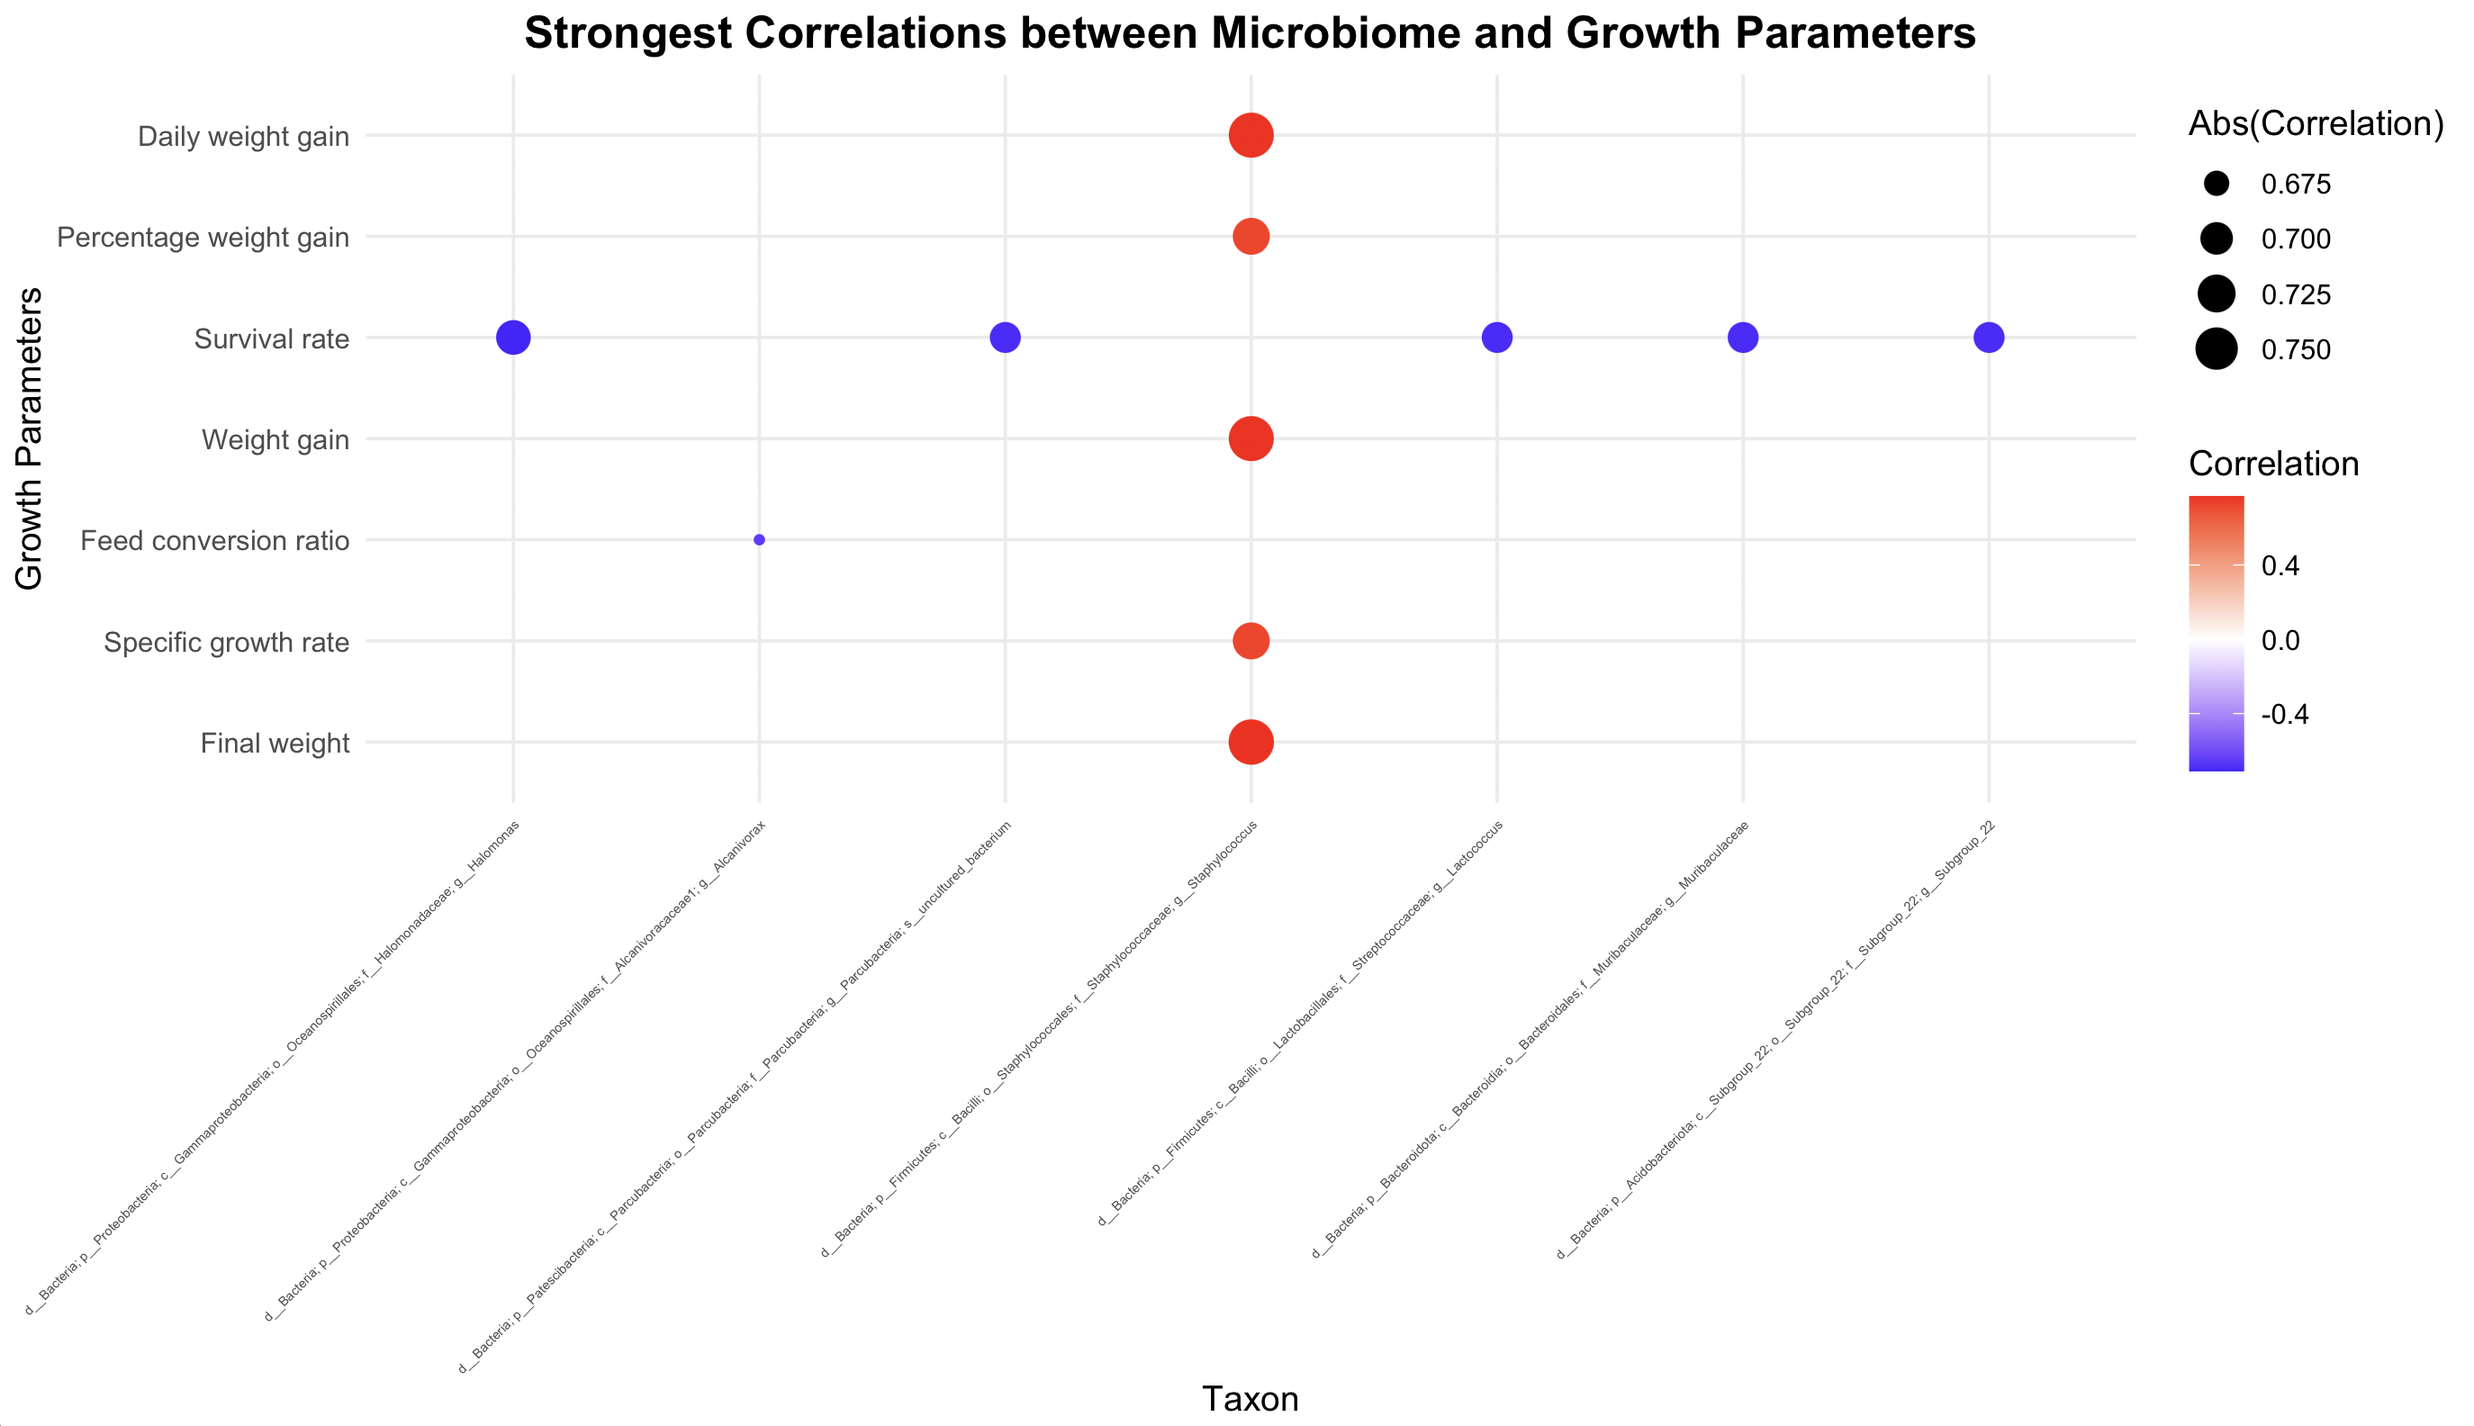
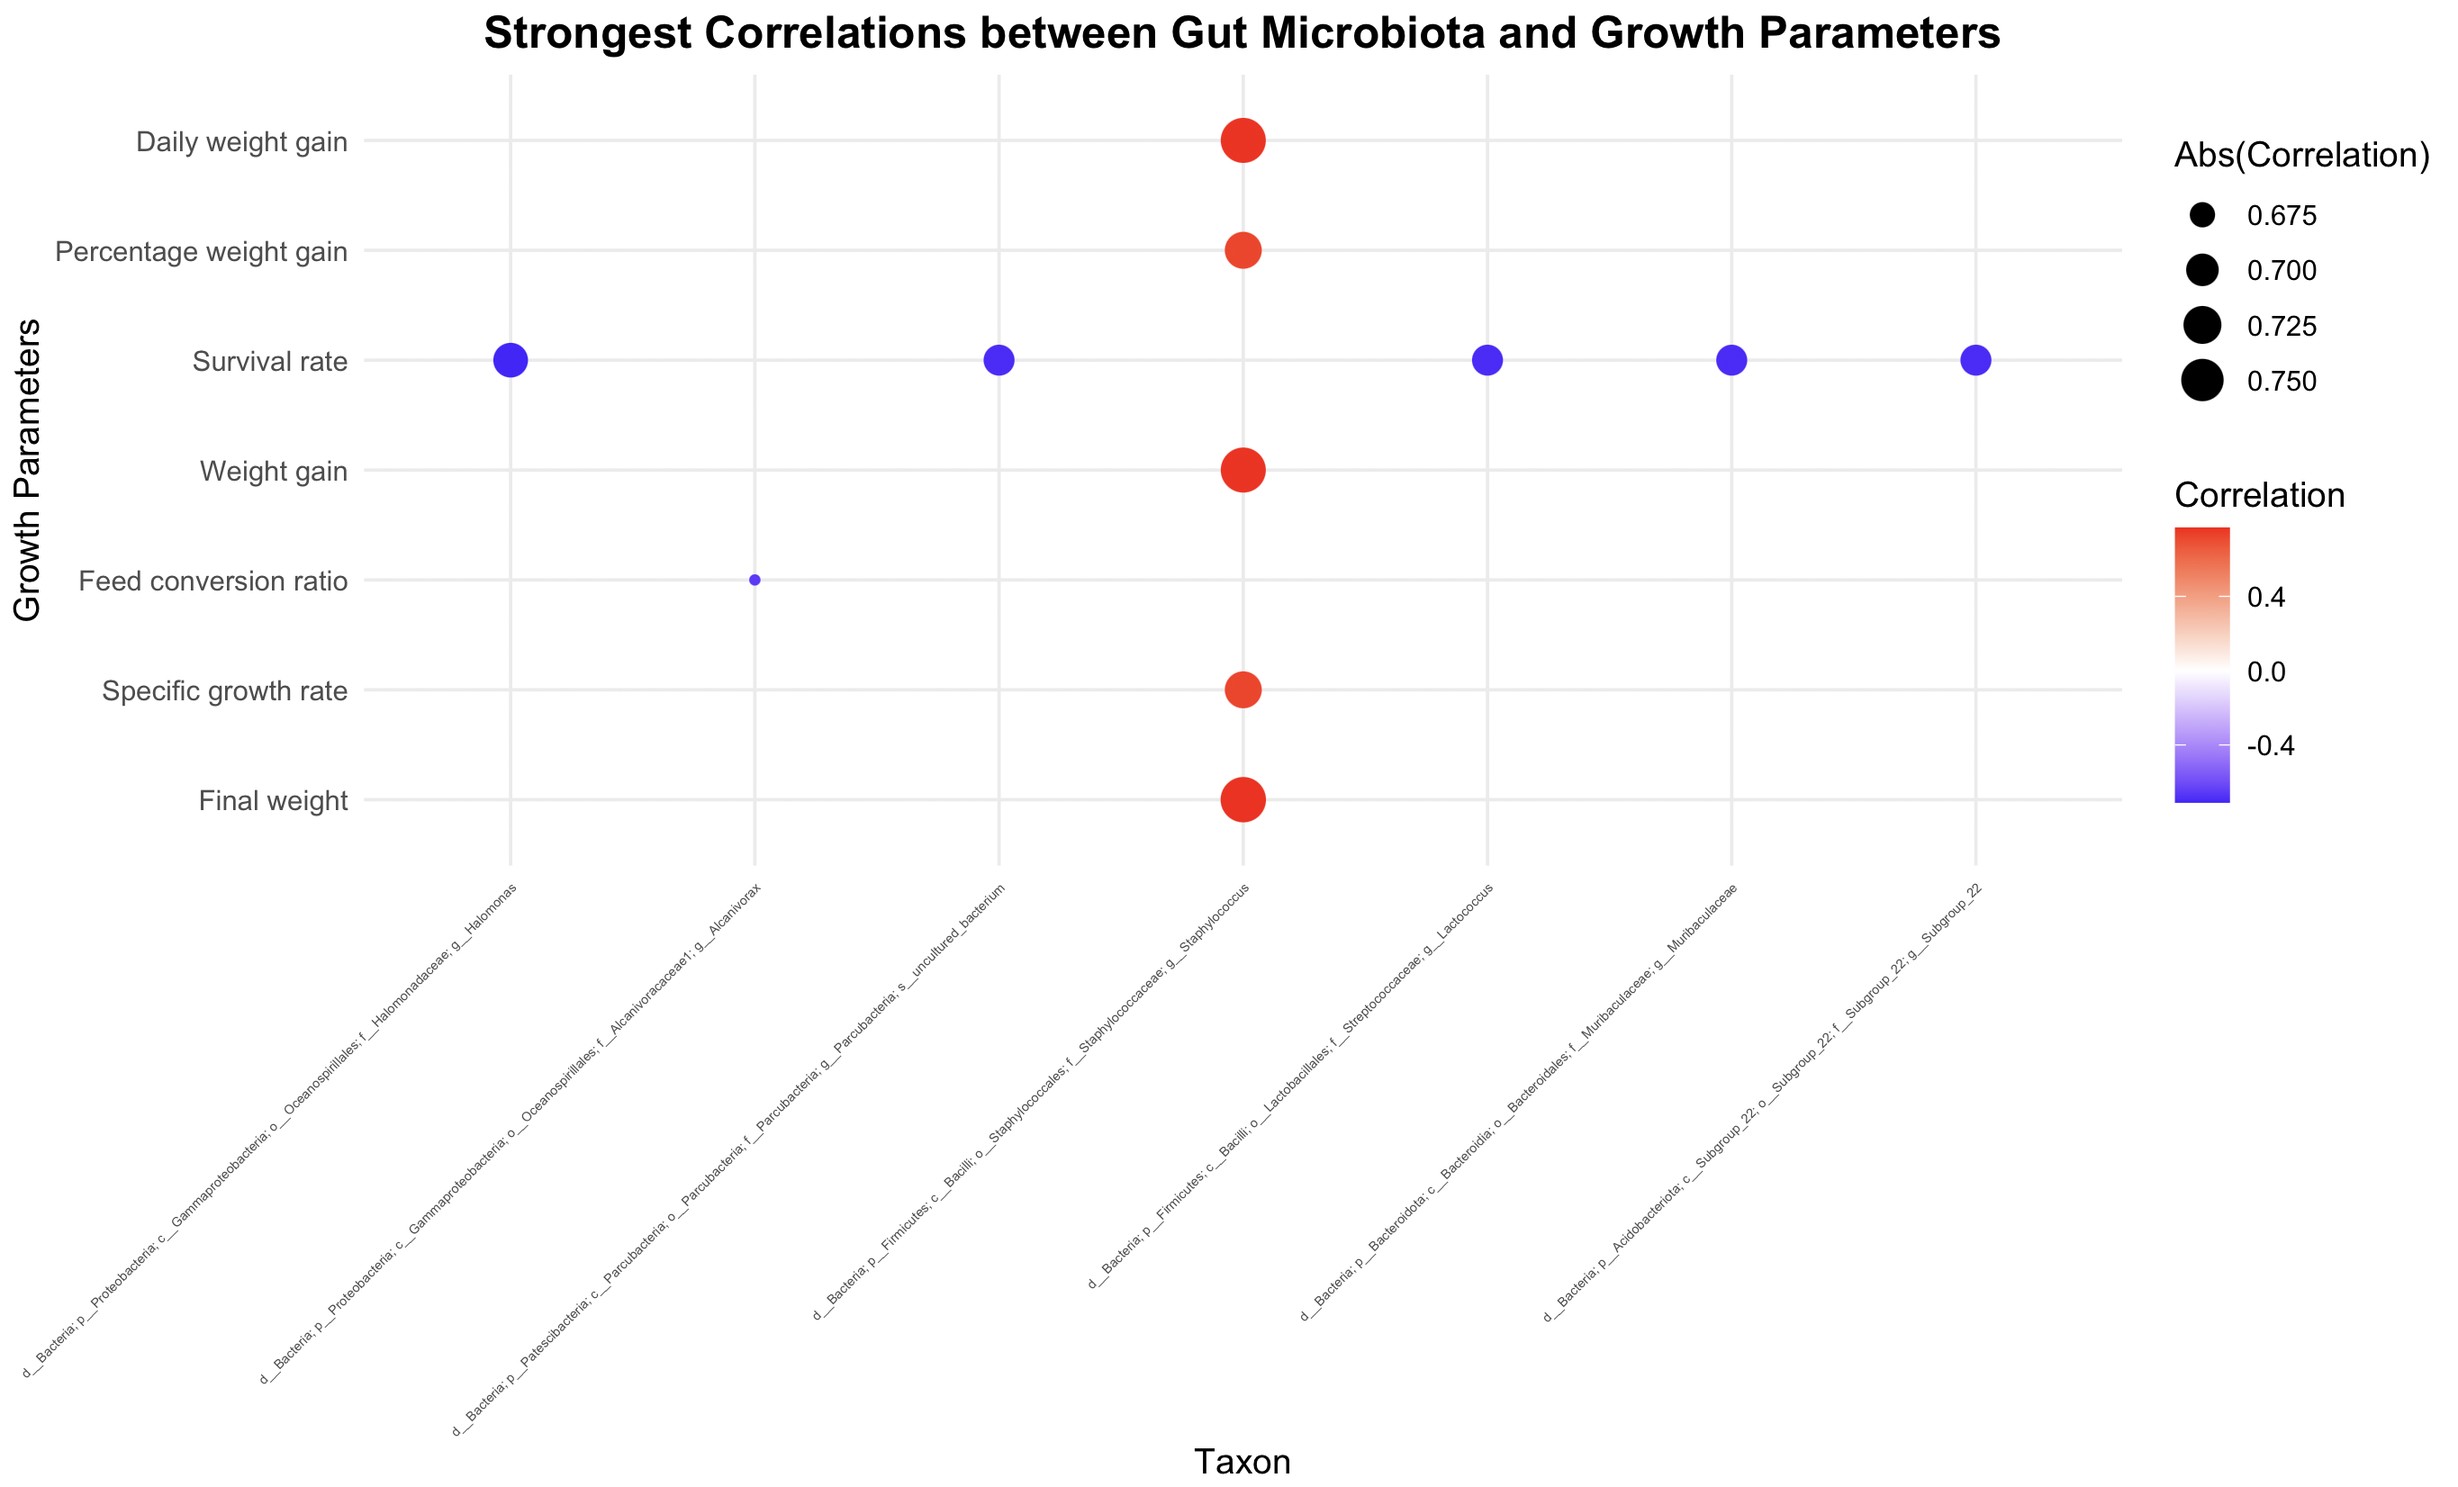
Update R_steps

diff --git a/R_steps/4. Visualization of microbiome analysis results.md b/R_steps/4. Visualization of microbiome analysis results.md
@@ -1,0 +1,162 @@
+# 4. Visualization of Gut Microbiome Analysis Results
+
+This section details the visualization of gut microbiome data, focusing on the relative abundance of genera across various samples, categorized by treatment groups.
+
+## 4.1. Environment Setup and Data Loading
+
+### 4.1.1. R Library Installation
+
+```r
+install.packages(c("tidyverse", "RColorBrewer"))
+```
+
+```r
+library(tidyverse)
+library(RColorBrewer)
+```
+
+### 4.1.2. Data Import
+
+Import the necessary data files:
+
+```r
+feature_table <- read_tsv("feature-table.tsv")
+taxonomy <- read_tsv("taxonomy.tsv")
+metadata <- read_tsv("metadata.tsv")
+```
+
+## 4.2. Data Processing and Preparation
+
+### 4.2.1. Wide to Long Format Conversion
+
+Convert the feature table from wide to long format for streamlined processing and plotting:
+
+```r
+feature_long <- feature_table %>%
+  pivot_longer(cols = -`OTU ID`, names_to = "sample-id", values_to = "Abundance") %>%
+  mutate(`sample-id` = as.numeric(`sample-id`))
+```
+
+### 4.2.2. Data Merging with Taxonomy and Metadata
+
+Merge the feature data with taxonomy and metadata to enrich each OTU and sample with comprehensive information:
+
+```r
+merged_data <- feature_long %>%
+  left_join(taxonomy, by = c("OTU ID" = "Feature ID")) %>%
+  left_join(metadata, by = "sample-id")
+```
+
+### 4.2.3. Relative Abundance Normalization
+
+Calculate the relative abundance for each OTU within each sample:
+
+```r
+final_data <- merged_data %>%
+  group_by(`sample-id`) %>%
+  mutate(Relative_Abundance = Abundance / sum(Abundance)) %>%
+  ungroup()
+```
+
+### 4.2.4. Genus Column Processing
+
+Extract genus information from the taxonomy column and handle special cases:
+
+```r
+final_data <- final_data %>%
+  mutate(Genus = str_extract(Taxon, "g__[^;]+")) %>%
+  mutate(Genus = ifelse(is.na(Genus), "uncultured unclassified", Genus)) %>%
+  mutate(Genus = str_remove(Genus, "^g__"),
+         Genus = str_replace_all(Genus, "_", " "),
+         Genus = ifelse(str_detect(Taxon, "uncultured|unclassified"), "uncultured unclassified", Genus))
+```
+
+### 4.2.5. Selection of Top 30 Predominant Genera
+
+Select the 30 genera with the highest relative abundance for detailed display, grouping the rest as "Other":
+
+```r
+top_30_genus <- final_data %>%
+  group_by(Genus) %>%
+  summarise(Total_Abundance = sum(Relative_Abundance)) %>%
+  arrange(desc(Total_Abundance)) %>%
+  slice_head(n = 30) %>%
+  pull(Genus)
+
+final_data <- final_data %>%
+  mutate(Genus = ifelse(Genus %in% top_30_genus, Genus, "Other"))
+```
+
+### 4.2.6. Genus and Treatment Order Arrangement
+
+Arrange the display order of genera and treatments for enhanced plot readability:
+
+```r
+final_data$Genus <- factor(final_data$Genus, levels = sort(unique(final_data$Genus)))
+final_data$Treatment <- factor(final_data$Treatment, levels = c("Control", "RP-5", "RP-10", "RP-20", "RP-40"))
+```
+
+### 4.2.7. Sample Renaming
+
+Rename samples for improved clarity:
+
+```r
+final_data <- final_data %>%
+  mutate(Sample_Label = sprintf("CH128-001M%04d", \`sample-id\`))
+```
+
+## 4.3. Color Customization
+
+Customize colors for genera to enhance plot visual appeal:
+
+```r
+highlight_colors <- c(
+  "uncultured unclassified" = "steelblue",
+  "Staphylococcus" = "skyblue",
+  "Chloroplast" = "red",
+  "Muribaculaceae" = "purple",
+  "Alloprevotella" = "green"
+)
+
+remaining_genus <- setdiff(unique(final_data$Genus), names(highlight_colors))
+num_colors_needed <- length(remaining_genus)
+
+if (num_colors_needed > 0) {
+  default_colors <- setNames(
+    colorRampPalette(brewer.pal(min(9, num_colors_needed), "Set1"))(num_colors_needed),
+    remaining_genus
+  )
+} else {
+  default_colors <- c()
+}
+
+genus_colors <- c(highlight_colors, default_colors)
+```
+
+## 4.4. Genus Composition Plotting
+
+Generate a stacked bar plot to visualize the relative abundance of genera across samples, grouped by treatment:
+
+```r
+ggplot(final_data, aes(x = Sample_Label, y = Relative_Abundance, fill = Genus)) +
+  geom_bar(stat = "identity", position = "stack", width = 0.65) +
+  facet_grid(~Treatment, scales = "free_x", space = "free_x") +
+  scale_fill_manual(values = genus_colors) +
+  labs(
+    title = "Composition of Gut Microbiota at the Genus Level",
+    x = "Sample", y = "Relative Abundance", fill = "Genus") +
+  theme_minimal() +
+  theme(
+    plot.title = element_text(face = "bold", size = 14, hjust = 0.5),
+    axis.text.x = element_text(angle = 90, vjust = 0.5, hjust = 1, size = 7),
+    legend.text = element_text(size = 8),
+    panel.border = element_rect(color = "black", fill = NA, size = 0.4),
+    strip.background = element_rect(fill = "grey90", color = "black"),
+    strip.text = element_text(face = "bold", size = 9)
+  )
+```
+
+**Visualization:**
+
+ ![Composition barplot](<Composition_barplot.png>)
+ *Download:* [Composition barplot](<Composition_barplot.png>)

diff --git a/R_steps/3. Spearman correlation analysis.md b/R_steps/3. Spearman correlation analysis.md
@@ -280,7 +280,7 @@ nrow(cor_df_with_tax)  # Number of significant taxa
 
 ### 3.3.3 Visualization and Analysis
 
-#### 3.3.3.1 Strongest Correlations between Microbiome and Growth Parameters
+#### 3.3.3.1 Strongest Correlations between Gut Microbiota and Growth Parameters
 
 ##### Prepare Data for Dotplot
 
@@ -308,7 +308,7 @@ cor_df_unique <- cor_df_unique %>%
 
 ##### Draw Dotplot
 
-Create a dotplot to visualize the strongest correlations between microbiome and growth parameters:
+Create a dotplot to visualize the strongest correlations between gut microbiota and growth parameters:
 
 ```r
 ggplot(cor_df_unique, aes(x = Taxon, y = Metadata, 
@@ -320,14 +320,15 @@ ggplot(cor_df_unique, aes(x = Taxon, y = Metadata,
     axis.text.x = element_text(angle = 45, hjust = 1, vjust = 1, size = 4.1),
     plot.title = element_text(hjust = 0.5, face = "bold", size = 14)  
   ) +
-  labs(title = "Strongest Correlations between Microbiome and Growth Parameters",
+  labs(title = "Strongest Correlations between Gut Microbiota and Growth Parameters",
        x = "Taxon", y = "Growth Parameters",
        size = "Abs(Correlation)", color = "Correlation")
 ```
 
 **Visualization:**  
-![Strongest Correlations between Microbiome and Growth Parameters](Strongest_Correlations.png)
-*Download:* [Strongest Correlations between Microbiome and Growth Parameters](Strongest_Correlations.png)
+
+![Strongest Correlations between Gut Microbiota and Growth Parameters](<Strongest_Correlations.png>)
+*Download:* [Strongest Correlations between Gut Microbiota and Growth Parameters](Strongest_Correlations.png)
 
 #### 3.3.3.2 Phylum-Level Correlation Analysis
 
